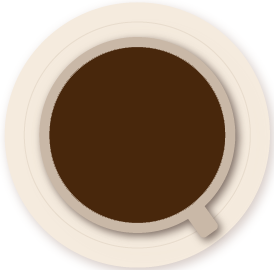
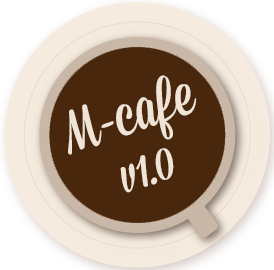
Updated first two pages

Changed region(s): [[0.2336, 0.2667, 0.7299, 0.7111]]

diff --git a/src/server/opinion/templates/mobile.html b/src/server/opinion/templates/mobile.html
@@ -13,7 +13,7 @@
     <link rel="image_src" href="{{ url_root }}/media/mobile/img/cafe/cafe-title-cropped.png"/> -->
 
 <!-- <title>{{client_settings.WELCOME_PAGE_TITLE}}</title> -->
-<title>CS 169.1X Report Card</title>
+<title>MOOC Course Assessment and Feedback Engine v1.0</title>
 
 <!-- for best viewing on mobile phones -->
 <meta name='viewport' content='user-scalable=no, width=device-width,initial-scale=1, maximum-scale=1' />
@@ -220,7 +220,7 @@
 
       <center>
           <img src="{{url_root}}/media/mobile/img/cafe/cafe-title-cropped.png" style="padding-top: 5px;border: none;width: 250px;" />
-          <div style="color: #FFFFFF; position: relative; top:-170px;font-size:24px;font-family: cursive; ">CS 169.1X<br/>Report Card</div>
+          <!--<div style="color: #FFFFFF; position: relative; top:-170px;font-size:24px;font-family: cursive; ">CS 169.1X<br/>Report Card</div>-->
       </center>
 
     <div class="responsive-max-width">
@@ -233,7 +233,7 @@
                         <div style="width: 140px;line-height: 24px;">
                             <button type='submit' data-theme='a' class='first-time-btn'><font style="font-size: 14px;">BEGIN</font></button>
                         </div>
-                    Take a moment to join {{num_users}} others who have graded the CS 169.1X Course.<br/>
+                    Please join {{num_users}} others who are providing ongoing feedback about EdX CS169.1x: Software as a Service.
                     <a href="#" class="help-btn-dialog" style="font-size: 15px;color: #4e300f;">About</a>
                     <!--{{client_settings.WELCOME_PAGE_TEXT1}}-->
                 </div>

diff --git a/src/client/media/mobile/css/opinionspace.css b/src/client/media/mobile/css/opinionspace.css
@@ -536,7 +536,7 @@ table.pretty caption {
 	float: right;
 	width: 25%;
 	position: relative;
-	top: -100px;
+	top: -60px;
 	left: -9px;
 	}
 
@@ -548,8 +548,6 @@ table.pretty caption {
 	color: #4e300f;
 	font-size: 15px;
 	text-shadow: none;
-	position: relative;
-	top: -60px;
 	}
 
 	.byline{
